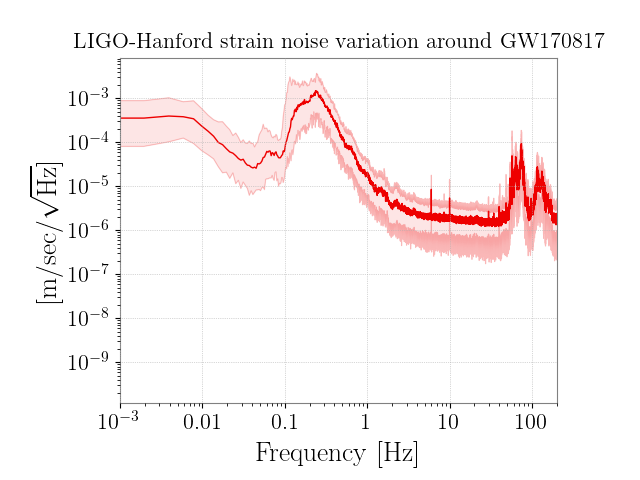
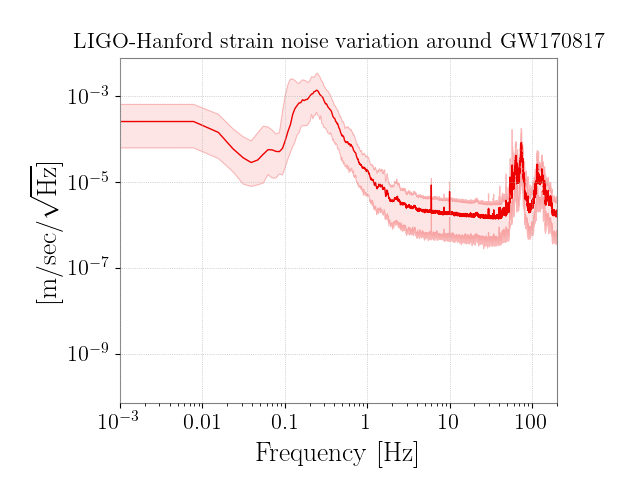
Update

diff --git a/noiseMeasurement/main_selfnoise.py b/noiseMeasurement/main_selfnoise.py
@@ -1,17 +1,28 @@
 #
 #! coding:utf-8
 import numpy as np
-
+import matplotlib as mpl
+mpl.use('Agg')
 #from miyopy.utils.tips import read
 from miyopy.io import read 
 from miyopy.signal import coherence,asd
 from miyopy.plot import coherenceplot,asdplot
 #import matplotlib.pyplot as plt
 from miyopy.utils.trillium import H120QA,TRselfnoise
+import sys
+#sys.path.insert(0,'~/gwpy')
+#import gwpy
+#print(gwpy.__version__)
 from gwpy.timeseries import TimeSeries
+from gwpy.time import tconvert
+from gwpy.plot import Plot
+
+import glue
+#print(glue.__file__)
 
 c2V = 10.0/2**15
 deGain = 10**(-30.0/20.0)
+
 
 def coh2snr(coh):
     '''
@@ -124,27 +135,67 @@ def plot_asd_all(t1,t2,t3,start,end,fs,ave=32):
             fname='selfnoise')    
 
    
+def dump(chname,start,tlen):    
+    end = start + tlen
+    from glue.lal import Cache
+    from gwpy.timeseries import TimeSeries
+
+    gwf_cache = 'K-K1_C.Oct1-Oct21.cache'
+    with open(gwf_cache, 'r') as fobj:
+        cache = Cache.fromfile(fobj)
+        
+    data = TimeSeries.read(cache,chname,start=start, end=end,verbose=True,nproc=8)
+    data.write('{start}_{tlen}_{ch}.gwf'.format(ch=chname,start=start,tlen=tlen)
+                ,format='gwf.lalframe')
     
 
 if __name__ == "__main__":
-    tlen = 2**13
-    start = 1220194818
-    start = 1221922818
-    end = start+tlen
-    #
-    #
-    t1_ns = read(start,end,'K1:PEM-IXV_SEIS_NS_SENSINF_IN1_DQ')*c2V
-    ch = 'K1:PEM-IXV_SEIS_NS_SENSINF_IN1_DQ'
-    t1_ns = TimeSeries.fetch(ch, start, end, host="k1nds0", port=8088)
+    tlen = 2**16
+    start = 1222354818 # UTC 2018-09-30T15:00:00
+    end = start+tlen    
+    # dump('K1:PEM-IXV_SEIS_NS_SENSINF_IN1_DQ',start,tlen)
+    # dump('K1:PEM-IXV_SEIS_WE_SENSINF_IN1_DQ',start,tlen)
+    # dump('K1:PEM-IXV_SEIS_Z_SENSINF_IN1_DQ',start,tlen)
+    # dump('K1:PEM-EXV_SEIS_NS_SENSINF_IN1_DQ',start,tlen)
+    # dump('K1:PEM-EXV_SEIS_WE_SENSINF_IN1_DQ',start,tlen)
+    # dump('K1:PEM-EXV_SEIS_Z_SENSINF_IN1_DQ',start,tlen)
+    # dump('K1:PEM-IXV_SEIS_TEST_NS_SENSINF_IN1_DQ',start,tlen)
+    # dump('K1:PEM-IXV_SEIS_TEST_WE_SENSINF_IN1_DQ',start,tlen)
+    # dump('K1:PEM-IXV_SEIS_TEST_Z_SENSINF_IN1_DQ',start,tlen)
+    chname = 'K1:PEM-IXV_SEIS_NS_SENSINF_IN1_DQ'
+    dumped_gwf_fmt = '{start}_{tlen}_{chname}.gwf'
+    t1_ns = TimeSeries.read(
+        dumped_gwf_fmt.format(start=start,tlen=tlen,chname=chname),
+        chname, start, end, verbose=True ,nproc=8)*c2V    
+
+    sg = t1_ns.spectrogram2(fftlength=2**7, overlap=2, window='hanning') ** (1/2.)
+    median = sg.percentile(50)
+    low = sg.percentile(5)
+    high = sg.percentile(95)
+    plot = Plot()
+    ax = plot.gca(xscale='log', xlim=(1e-3, 200), xlabel='Frequency [Hz]',
+                  yscale='log', #ylim=(3e-24, 2e-20),
+                  ylabel=r' [m/sec/\rtHz]')
+    ax.plot_mmm(median, low, high, color='gwpy:ligo-hanford')
+    ax.set_title('LIGO-Hanford strain noise variation around GW170817',
+             fontsize=16)
+    plot.savefig('huge.png')
+    plot.close()
+    print(t1_ns)
+    print('aaa')
     exit()
-    t1_we = read(start,end,'K1:PEM-IXV_SEIS_WE_SENSINF_IN1_DQ')*c2V
-    t1_zz = read(start,end,'K1:PEM-IXV_SEIS_Z_SENSINF_IN1_DQ')*c2V
-    t3_ns = read(start,end,'K1:PEM-EXV_SEIS_NS_SENSINF_IN1_DQ')*c2V*deGain
-    t3_we = read(start,end,'K1:PEM-EXV_SEIS_WE_SENSINF_IN1_DQ')*c2V*deGain
-    t3_zz = read(start,end,'K1:PEM-EXV_SEIS_Z_SENSINF_IN1_DQ')*c2V*deGain
-    t2_ns = read(start,end,'K1:PEM-IXV_SEIS_TEST_NS_SENSINF_IN1_DQ')*c2V
-    t2_we = read(start,end,'K1:PEM-IXV_SEIS_TEST_WE_SENSINF_IN1_DQ')*c2V
-    t2_zz = read(start,end,'K1:PEM-IXV_SEIS_TEST_Z_SENSINF_IN1_DQ')*c2V
+    #
+    #
+    #
+    specgram = t1_ns.spectrogram(2**11, fftlength=2**9, overlap=.5) ** (1/2.)
+    plot = specgram.imshow(norm='log')
+    ax = plot.gca()
+    ax.set_yscale('log')
+    ax.set_ylim(1e-3, 200)
+    ax.colorbar(
+        label=r'Gravitational-wave amplitude [strain/$\sqrt{\mathrm{Hz}}$]')
+    plot.savefig('poyo.png')
+    exit()
     # init
     tlen = end - start
     fs = len(t1_we)/tlen
@@ -154,6 +205,9 @@ if __name__ == "__main__":
     t3 = [t3_we,t3_ns,t3_zz]
     #
     # plot
+    print(t1_ns)
+    exit()
+
     huge(t1,t2,t3,start,end,fs,ave=ave)
     plot_asd_all(t1,t2,t3,start,end,fs,ave=ave)
     #plot_sensor_noise(t1,t2,t3,)
